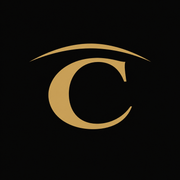
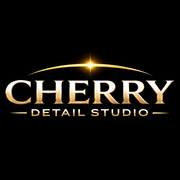
feat: apply client service and WhatsApp booking revisions

Changed region(s): [[0.0278, 0.2222, 0.9722, 0.7222]]

diff --git a/src/app/page.tsx b/src/app/page.tsx
@@ -1,7 +1,7 @@
 import Image from 'next/image';
 import Link from 'next/link';
 import { Location } from '@/components/Location';
-import { Countdown } from '@/components/Countdown';
+import { ContactButton } from '@/components/ContactButton';
 import { business, bookingUrl, featuredServices, otherServices } from '@/lib/content';
 
 const localBusiness = {
@@ -17,14 +17,14 @@ const localBusiness = {
 export default function HomePage() {
   return <>
     <script type="application/ld+json" dangerouslySetInnerHTML={{ __html: JSON.stringify(localBusiness).replace(/</g, '\\u003c') }} />
-    <section className="hero"><Image src="/hero-car.webp" alt="Imagem ilustrativa de um hatch compacto brasileiro preto com acabamento brilhante" fill priority sizes="100vw" className="hero-image"/><div className="hero-scrim"/><div className="shell hero-content"><p className="hero-place">Estética automotiva em Jacupiranga</p><h1>Cuidado em cada detalhe.</h1><p className="hero-copy">Da busca à entrega, atenção individual para valorizar cada acabamento do seu veículo.</p><a className="button button-gold" href={bookingUrl()}>Falar sobre agendamento <span aria-hidden="true">↗</span></a><p className="image-note">Imagem ilustrativa</p></div></section>
-    <section id="inauguracao" className="opening-section"><div className="shell opening-grid"><div><p className="section-intro">Um novo endereço para o seu veículo</p><h2>Inauguração em 31/10.</h2><p>Venha conhecer nosso espaço na Rua Mangueira, 177. Esperamos você das 15h às 17h.</p><a className="text-link" href={business.maps} target="_blank" rel="noreferrer">Como chegar <span aria-hidden="true">↗</span></a></div><div className="opening-right"><p className="opening-date">31.10.2026</p><Countdown/></div></div></section>
+    <section className="hero"><Image src="/hero-car.webp" alt="Imagem ilustrativa de um hatch compacto brasileiro preto com acabamento brilhante" fill priority sizes="100vw" className="hero-image"/><div className="hero-scrim"/><div className="shell hero-content"><p className="hero-place">Estética automotiva em Jacupiranga</p><h1>Cuidado em cada detalhe.</h1><p className="hero-copy">Da busca à entrega, atenção individual para valorizar cada acabamento do seu veículo.</p><ContactButton/><p className="image-note">Imagem ilustrativa</p></div></section>
+    <section id="inauguracao" className="opening-section"><div className="shell opening-grid"><div><p className="section-intro">Uma nova experiência em Jacupiranga</p><h2>A Cherry está em inauguração.</h2><p>Um novo espaço dedicado à estética automotiva, com atenção aos detalhes e ao cuidado com o seu veículo.</p></div><div className="opening-welcome"><h3>Seu carro merece esse cuidado.</h3><p>Conheça os serviços e converse com a equipe para escolher o melhor cuidado para o seu veículo.</p><ContactButton/></div></div></section>
     <section id="servicos" className="services-section"><div className="shell"><div className="section-heading"><h2>O cuidado que seu carro merece.</h2><p>Serviços de estética e detalhamento planejados conforme o veículo e o resultado desejado.</p></div><div className="service-list">{featuredServices.map((service) => <Link className="service-row service-row-photo" key={service.slug} href={`/servicos/${service.slug}`}><span className="service-thumb"><Image src={service.image} alt="" fill sizes="(max-width: 560px) 100vw, 55vw"/></span><span className="service-title">{service.title}</span><span className="service-description">{service.description}</span><span className="service-arrow" aria-hidden="true">↗</span></Link>)}</div><p className="service-extra">Também realizamos {otherServices.join(', ').toLocaleLowerCase('pt-BR')} e outros serviços especializados.</p></div></section>
     <section className="kit-section"><div className="shell kit-grid"><div className="kit-copy"><h2>O cuidado começa na escolha.</h2><p>Produtos profissionais, ferramentas adequadas e atenção às superfícies. Cada veículo recebe o cuidado que precisa, do acabamento externo aos detalhes do interior.</p><a className="text-link" href={bookingUrl()}>Encontre o serviço ideal <span aria-hidden="true">↗</span></a></div><div className="kit-art"><Image src="/detailing-kit.webp" alt="Ilustração de ferramentas de estética automotiva: pulverizadores, microfibra, pincéis e politriz" fill sizes="(max-width: 860px) 100vw, 55vw"/></div></div></section>
-    <section className="care-section"><div className="shell care-grid"><figure className="studio-photo"><Image src="/studio-cutout.webp" alt="Fachada da Cherry Detail Studio, com entrada para veículos e iluminação dourada" fill sizes="(max-width: 860px) 100vw, 52vw"/></figure><div><h2>Seu tempo também merece cuidado.</h2><p>Atendemos com horário marcado em nosso espaço físico. Em Jacupiranga, buscamos e entregamos seu veículo sem taxa adicional, mediante combinação prévia.</p><p>Os produtos e procedimentos são escolhidos conforme as características do veículo e do serviço.</p><a className="text-link" href={bookingUrl('o serviço de leva e traz')}>Consultar disponibilidade <span aria-hidden="true">↗</span></a></div></div></section>
-    <section id="sobre" className="founder-section"><div className="shell founder-grid"><div className="founder-photo"><Image src="/alessandro-portrait.webp" alt="Retrato editado de Alessandro Ramos, fundador da Cherry Detail Studio" fill sizes="(max-width: 860px) 100vw, 45vw"/></div><div className="founder-copy"><p className="section-intro">Quem está à frente</p><h2>Alessandro Ramos</h2><p>Fundador da Cherry Detail Studio e da Tiger Segurança Privada, Alessandro conduz a Cherry com uma proposta de atendimento individualizado, atenção à segurança e cuidado em cada etapa.</p><p>Um espaço pensado para receber seu veículo e entregar uma experiência à altura do resultado.</p><a className="text-link" href={bookingUrl()}>Converse com a Cherry <span aria-hidden="true">↗</span></a></div></div></section>
-    <section className="faq-section"><div className="shell"><h2>Antes de agendar</h2><div className="faq-grid"><div><h3>Preciso marcar horário?</h3><p>Sim. Atendemos com horário marcado para dedicar o tempo necessário a cada veículo.</p></div><div><h3>Vocês atendem em domicílio?</h3><p>Os serviços são feitos no estúdio. Oferecemos leva e traz gratuito dentro de Jacupiranga, combinado previamente.</p></div><div><h3>Como solicito um orçamento?</h3><p>Fale com a equipe pelo WhatsApp e conte qual serviço você procura. A avaliação do veículo orienta a proposta.</p></div><div><h3>Quando a plataforma de agendamento estará disponível?</h3><p>A plataforma Cera será divulgada quando estiver ativa. Por enquanto, converse com a Cherry pelo WhatsApp.</p></div></div></div></section>
+    <section className="care-section"><div className="shell care-grid"><div className="pickup-flow"><h3>Leva e traz gratuito em Jacupiranga</h3><ol><li><strong>Combine pelo WhatsApp</strong><p>Conte o serviço que procura e consulte a disponibilidade.</p></li><li><strong>A gente busca</strong><p>Retiramos o veículo no endereço e horário combinados.</p></li><li><strong>Você recebe de volta</strong><p>Após o cuidado no estúdio, combinamos a entrega.</p></li></ol></div><div><h2>Seu tempo também merece cuidado.</h2><p>Atendemos com horário marcado em nosso espaço físico. Em Jacupiranga, buscamos e entregamos seu veículo sem taxa adicional, mediante combinação prévia.</p><p>Os produtos e procedimentos são escolhidos conforme as características do veículo e do serviço.</p><a className="text-link" href={bookingUrl('o serviço de leva e traz')}>Consultar disponibilidade <span aria-hidden="true">↗</span></a></div></div></section>
+    <section id="sobre" className="founder-section"><div className="shell founder-grid"><div className="founder-photo"><Image src="/alessandro-portrait.webp" alt="Retrato editado de Sandro Ramos, fundador da Cherry Detail Studio" fill sizes="(max-width: 860px) 100vw, 45vw"/></div><div className="founder-copy"><p className="section-intro">Quem está à frente</p><h2>Sandro Ramos</h2><a className="sandro-profile" href="https://www.instagram.com/sandro_ramoos_/" target="_blank" rel="noreferrer"><Image src="/instagram.svg" alt="" width={18} height={18}/> @sandro_ramoos_</a><p>Fundador da Cherry Detail Studio e da Tiger Segurança Privada, Sandro conduz a Cherry com uma proposta de atendimento individualizado, atenção à segurança e cuidado em cada etapa.</p><p>Um espaço pensado para receber seu veículo e entregar uma experiência à altura do resultado.</p><a className="text-link" href={bookingUrl()}>Converse com a Cherry <span aria-hidden="true">↗</span></a></div></div></section>
+    <section className="faq-section"><div className="shell"><h2>Antes de agendar</h2><div className="faq-grid"><div><h3>Preciso marcar horário?</h3><p>Sim. Atendemos com horário marcado para dedicar o tempo necessário a cada veículo.</p></div><div><h3>Vocês atendem em domicílio?</h3><p>Os serviços são feitos no estúdio. Oferecemos leva e traz gratuito dentro de Jacupiranga, combinado previamente.</p></div><div><h3>Como solicito um orçamento?</h3><p>Fale com a equipe pelo WhatsApp e conte qual serviço você procura. A avaliação do veículo orienta a proposta.</p></div><div><h3>Como faço meu agendamento?</h3><p>Toque em “Agendar pelo WhatsApp”, envie sua mensagem e combine o serviço e o horário diretamente com a equipe.</p></div></div></div></section>
     <Location/>
-    <section id="contato" className="contact-section"><div className="shell contact-grid"><div><p className="section-intro">Estamos em Jacupiranga</p><h2>Seu próximo cuidado começa aqui.</h2><a className="button button-gold" href={bookingUrl()}>Conversar no WhatsApp <span aria-hidden="true">↗</span></a></div><div className="contact-info"><h3>Cherry Detail Studio</h3><p>{business.address}</p><p>Segunda a sexta: 08h às 18h<br/>Sábado: 08h às 13h<br/>Atendimento com horário marcado.</p><a href={business.maps} target="_blank" rel="noreferrer">Abrir rota <span aria-hidden="true">↗</span></a><a href={`tel:+${business.phone}`}>{business.phoneDisplay}</a></div></div></section>
+    <section id="contato" className="contact-section"><div className="shell contact-grid"><div><p className="section-intro">Estamos em Jacupiranga</p><h2>Seu próximo cuidado começa aqui.</h2><ContactButton/></div><div className="contact-info"><h3>Cherry Detail Studio</h3><p>{business.address}</p><p>Segunda a sexta: 08h às 18h<br/>Sábado: 08h às 13h<br/>Atendimento com horário marcado.</p><a href={business.maps} target="_blank" rel="noreferrer">Abrir rota <span aria-hidden="true">↗</span></a><a href={`tel:+${business.phone}`}>{business.phoneDisplay}</a></div></div></section>
   </>;
 }

diff --git a/src/lib/content.ts b/src/lib/content.ts
@@ -6,9 +6,6 @@ export const business = {
   address: 'Rua Mangueira, 177 – Flor da Vila, Jacupiranga/SP, CEP 11940-000',
   maps: 'https://www.google.com/maps/search/?api=1&query=Rua+Mangueira+177+Flor+da+Vila+Jacupiranga+SP',
   domain: 'https://cherrydetail.com.br',
-  openingAt: '2026-10-31T15:00:00-03:00',
-  openingEnd: '2026-10-31T17:00:00-03:00',
-  ceraUrl: '',
 } as const;
 
 export interface Service {
@@ -22,9 +19,9 @@ export interface Service {
 }
 
 export const featuredServices: Service[] = [
-  { slug: 'higienizacao-de-estofados', title: 'Higienização de estofados', description: 'Um cuidado dedicado ao interior do veículo.', detail: 'A higienização dos estofados é indicada para quem deseja renovar o cuidado com o interior do veículo. A avaliação prévia considera o material e as condições de cada peça.', benefit: 'Cuidado individual para o ambiente em que você passa mais tempo.', image: '/higienizacao-estofados.webp', imageAlt: 'Imagem ilustrativa da higienização de estofados de um carro compacto' },
+  { slug: 'higienizacao-de-estofados', title: 'Higienização de estofados', description: 'Limpeza profunda para um interior mais higienizado e renovado.', detail: 'A higienização dos estofados combina limpeza profunda e extração de sujeiras e resíduos dos bancos e tecidos. O procedimento busca reduzir a presença de fungos, ácaros e bactérias no interior do carro, conforme os produtos e métodos adequados a cada material.', benefit: 'Um interior com aspecto mais limpo, higienizado e aparência renovada. O resultado depende do material, do estado de conservação e das condições dos estofados.', image: '/higienizacao-estofados.webp', imageAlt: 'Imagem ilustrativa da higienização de estofados de um carro compacto' },
   { slug: 'polimento-tecnico', title: 'Polimento técnico', description: 'Acabamento atento à condição da pintura.', detail: 'O polimento técnico é planejado a partir de uma avaliação da pintura. A proposta é trabalhar o acabamento com atenção aos detalhes e às necessidades do veículo.', benefit: 'Uma apresentação da pintura feita com critério.', image: '/polimento-tecnico.webp', imageAlt: 'Imagem ilustrativa de polimento em um sedã comum no Brasil' },
-  { slug: 'lavagem-premium', title: 'Lavagem premium', description: 'Uma lavagem com mais atenção a cada etapa.', detail: 'A lavagem premium reúne cuidado na limpeza e atenção às superfícies do veículo. O procedimento é definido conforme o estado do carro e o resultado desejado.', benefit: 'Limpeza e apresentação em um atendimento cuidadoso.', image: '/lavagem-premium.webp', imageAlt: 'Imagem ilustrativa da lavagem premium de um SUV compacto' },
+  { slug: 'lavagem-premium', title: 'Lavagem premium', description: 'Um cuidado A+ com produtos e serviços adicionais à lavagem técnica.', detail: 'A lavagem premium oferece um cuidado A+: além da limpeza da lavagem técnica, reúne produtos e serviços agregados para dedicar mais atenção às superfícies e ao acabamento do veículo. A equipe explica os cuidados adicionais indicados para o seu carro antes do agendamento.', benefit: 'Mais cuidado no acabamento e na apresentação do veículo, com a composição do serviço definida na avaliação e no orçamento.', image: '/lavagem-premium.webp', imageAlt: 'Imagem ilustrativa da lavagem premium de um SUV compacto' },
   { slug: 'lavagem-de-motor', title: 'Lavagem de motor', description: 'Limpeza avaliada conforme as características do veículo.', detail: 'A lavagem de motor exige avaliação prévia das condições e características do veículo. Na Cherry, o atendimento é orientado pela segurança e pelo cuidado em cada etapa.', benefit: 'Um serviço especializado com atenção à segurança.', image: '/lavagem-motor.webp', imageAlt: 'Imagem ilustrativa da limpeza cuidadosa do motor de um carro compacto' },
 ];
 
@@ -36,5 +33,5 @@ export function whatsappUrl(subject?: string): string {
 }
 
 export function bookingUrl(subject?: string): string {
-  return business.ceraUrl || whatsappUrl(subject);
+  return whatsappUrl(subject);
 }

diff --git a/src/components/SiteFooter.tsx b/src/components/SiteFooter.tsx
@@ -1,12 +1,13 @@
 import Link from 'next/link';
 import Image from 'next/image';
 import { business, whatsappUrl } from '@/lib/content';
+import { ContactButton } from './ContactButton';
 import { Brand } from './Brand';
 
 export function SiteFooter() {
   return <footer className="site-footer"><div className="shell">
-    <div className="footer-invitation"><div><p>Vamos cuidar do seu veículo?</p><span>Converse com a Cherry e encontre o cuidado ideal.</span></div><a className="button button-gold" href={whatsappUrl()}>Agendar pelo WhatsApp <span aria-hidden="true">↗</span></a></div>
-    <div className="footer-top"><div className="footer-identity"><Link href="/" aria-label="Cherry Detail Studio, início"><Brand/></Link><p>Estética automotiva em Jacupiranga.<br/>Cuidado em cada detalhe.</p><a href={business.instagram} target="_blank" rel="noreferrer">Instagram <span aria-hidden="true">↗</span></a></div><div className="footer-column"><h2>Visite o estúdio</h2><address>Rua Mangueira, 177<br/>Flor da Vila · Jacupiranga/SP<br/>CEP 11940-000</address><a href={business.maps} target="_blank" rel="noreferrer">Como chegar <span aria-hidden="true">↗</span></a></div><div className="footer-column"><h2>Fale com a Cherry</h2><a className="footer-phone" href={whatsappUrl()}>{business.phoneDisplay}</a><p>Segunda a sexta · 08h às 18h<br/>Sábado · 08h às 13h</p><span>Atendimento com horário marcado.</span></div></div>
+    <div className="footer-invitation"><div><p>Vamos cuidar do seu veículo?</p><span>Converse com a Cherry e encontre o cuidado ideal.</span></div><ContactButton/></div>
+    <div className="footer-top"><div className="footer-identity"><Link href="/" aria-label="Cherry Detail Studio, início"><Brand/></Link><p>Estética automotiva em Jacupiranga.<br/>Cuidado em cada detalhe.</p><a href={business.instagram} target="_blank" rel="noreferrer"><Image src="/instagram.svg" alt="" width={18} height={18}/> Instagram <span aria-hidden="true">↗</span></a></div><div className="footer-column"><h2>Visite o estúdio</h2><address>Rua Mangueira, 177<br/>Flor da Vila · Jacupiranga/SP<br/>CEP 11940-000</address><a href={business.maps} target="_blank" rel="noreferrer">Como chegar <span aria-hidden="true">↗</span></a></div><div className="footer-column"><h2>Fale com a Cherry</h2><a className="footer-phone" href={whatsappUrl()}>{business.phoneDisplay}</a><p>Segunda a sexta · 08h às 18h<br/>Sábado · 08h às 13h</p><span>Atendimento com horário marcado.</span></div></div>
     <div className="footer-credit"><a className="footer-credit-link" href="https://bythe.tech/" aria-label="Desenvolvido por BYTHE"><span>Desenvolvido por</span><Image src="/bythe-mark.svg" alt="" width={35} height={28}/></a></div>
     <div className="footer-base"><p>© {new Date().getFullYear()} Cherry Detail Studio. Todos os direitos reservados.</p><div><Link href="/privacidade">Privacidade</Link><a href="#conteudo">Voltar ao topo <span aria-hidden="true">↑</span></a></div></div>
   </div></footer>;

diff --git a/src/app/servicos/[slug]/page.tsx b/src/app/servicos/[slug]/page.tsx
@@ -1,8 +1,9 @@
 import type { Metadata } from 'next';
 import Link from 'next/link';
 import Image from 'next/image';
+import { ContactButton } from '@/components/ContactButton';
 import { notFound } from 'next/navigation';
-import { bookingUrl, featuredServices } from '@/lib/content';
+import { featuredServices } from '@/lib/content';
 
 interface Props { params: Promise<{ slug: string }> }
 
@@ -19,5 +20,5 @@ export default async function ServicePage({ params }: Props) {
   const { slug } = await params;
   const service = featuredServices.find((item) => item.slug === slug);
   if (!service) notFound();
-  return <><section className="page-hero"><div className="shell"><p className="breadcrumb"><Link href="/">Início</Link> / Serviços</p><h1>{service.title}</h1><p>{service.description}</p></div></section><section className="detail-content"><div className="shell"><figure className="detail-photo"><Image src={service.image} alt={service.imageAlt} fill sizes="(max-width: 860px) 100vw, 1360px" priority/><figcaption>Imagem ilustrativa. Não representa um serviço realizado pela Cherry.</figcaption></figure><div className="detail-grid"><div><h2>Cuidado pensado para o seu veículo.</h2></div><div><p>{service.detail}</p><p>{service.benefit}</p><p>Atendemos com horário marcado na Rua Mangueira, 177, em Jacupiranga. O leva e traz é gratuito dentro da cidade, mediante combinação prévia.</p><a className="button button-gold" href={bookingUrl(service.title)}>Conversar sobre este serviço <span aria-hidden="true">↗</span></a></div></div></div></section></>;
+  return <><section className="page-hero"><div className="shell"><p className="breadcrumb"><Link href="/">Início</Link> / Serviços</p><h1>{service.title}</h1><p>{service.description}</p></div></section><section className="detail-content"><div className="shell"><figure className="detail-photo"><Image src={service.image} alt={service.imageAlt} fill sizes="(max-width: 860px) 100vw, 1360px" priority/><figcaption>Imagem ilustrativa. Não representa um serviço realizado pela Cherry.</figcaption></figure><div className="detail-grid"><div><h2>Cuidado pensado para o seu veículo.</h2></div><div><p>{service.detail}</p><p>{service.benefit}</p><p>Atendemos com horário marcado na Rua Mangueira, 177, em Jacupiranga. O leva e traz é gratuito dentro da cidade, mediante combinação prévia.</p><ContactButton subject={service.title}>Agendar este serviço pelo WhatsApp</ContactButton></div></div></div></section></>;
 }

diff --git a/src/app/client-revision.css b/src/app/client-revision.css
@@ -1,0 +1,1 @@
+.whatsapp-button{display:inline-flex;align-items:center;justify-content:center;gap:12px;background:#167342;color:#fff;font-weight:700}.whatsapp-button:hover{background:#105b34;color:#fff}.whatsapp-button>span{margin:0}.whatsapp-button img{flex-shrink:0}.floating-whatsapp{position:fixed;bottom:22px;right:24px;z-index:25;display:inline-flex;align-items:center;gap:10px;padding:15px 20px;border-radius:999px;background:#167342;color:#fff;font-size:14px;font-weight:700;box-shadow:0 5px 25px #0005;transition:background-color .2s,transform .2s}.floating-whatsapp:hover{background:#105b34;transform:translateY(-3px)}.floating-whatsapp>span{margin:0}.opening-welcome{padding:36px;background:#23231d;border-radius:14px}.opening-welcome h3{font-size:25px;font-weight:600;letter-spacing:-.03em;line-height:1.25}.opening-welcome p{font-size:16px!important;margin-bottom:26px}.opening-section h2{font-size:clamp(2.5rem,4vw,4rem)}.pickup-flow{background:#1b1e19;padding:38px;border-radius:16px}.pickup-flow h3{font-size:25px;line-height:1.3;letter-spacing:-.025em;font-weight:600;margin-bottom:30px}.pickup-flow ol{padding-left:22px;margin:0;display:grid;gap:24px}.pickup-flow li{padding-left:9px}.pickup-flow li::marker{color:#c8a360;font-weight:700}.pickup-flow strong{font-size:17px}.pickup-flow li p{font-size:15px;line-height:1.65;margin:8px 0 0;color:#d3d4ca}.sandro-profile{display:inline-flex;align-items:center;gap:10px;color:#d7b572;font-size:14px;margin:0 0 25px}.founder-copy .sandro-profile img{opacity:.85}.footer-identity>a:last-child{display:inline-flex;align-items:center;gap:9px}.footer-identity>a:last-child img{width:18px;height:18px}.footer-invitation .whatsapp-button{border-radius:8px}.footer-base{padding-bottom:55px}@media(max-width:860px){.header-cta.whatsapp-button{display:inline-flex;padding:12px}.header-cta.whatsapp-button>span{display:none}.header-cta.whatsapp-button{margin-left:auto}.mobile-navigation{margin-left:0}.opening-welcome{padding:28px}.pickup-flow{padding:28px}}@media(max-width:560px){.floating-whatsapp{bottom:calc(14px + env(safe-area-inset-bottom));right:16px;padding:13px 17px;font-size:13px}.header-inner{gap:13px}.header-cta.whatsapp-button{min-width:44px;min-height:44px}.opening-welcome h3,.pickup-flow h3{font-size:23px}.opening-section h2{font-size:2.5rem}.footer-base{padding-bottom:65px}}

diff --git a/src/app/layout.tsx b/src/app/layout.tsx
@@ -2,12 +2,14 @@ import type { Metadata, Viewport } from 'next';
 import { business } from '@/lib/content';
 import { SiteHeader } from '@/components/SiteHeader';
 import { SiteFooter } from '@/components/SiteFooter';
+import { FloatingWhatsApp } from '@/components/ContactButton';
 import { MotionLayer } from '@/components/MotionLayer';
 import './globals.css';
 import './studio.css';
 import './refinement.css';
 import './brand-refresh.css';
 import './motion.css';
+import './client-revision.css';
 import { Manrope } from 'next/font/google';
 
 const manrope = Manrope({ subsets: ['latin'], display: 'swap', variable: '--font-manrope' });
@@ -24,5 +26,5 @@ export const metadata: Metadata = {
 export const viewport: Viewport = { themeColor: '#0b0b0b' };
 
 export default function RootLayout({ children }: Readonly<{ children: React.ReactNode }>) {
-  return <html lang="pt-BR" className={manrope.variable}><body><a className="skip-link" href="#conteudo">Pular para o conteúdo</a><SiteHeader/><main id="conteudo">{children}</main><MotionLayer/><SiteFooter/></body></html>;
+  return <html lang="pt-BR" className={manrope.variable}><body><a className="skip-link" href="#conteudo">Pular para o conteúdo</a><SiteHeader/><main id="conteudo">{children}</main><MotionLayer/><SiteFooter/><FloatingWhatsApp/></body></html>;
 }

diff --git a/src/components/SiteHeader.tsx b/src/components/SiteHeader.tsx
@@ -1,5 +1,5 @@
 import Link from 'next/link';
-import { bookingUrl } from '@/lib/content';
+import { ContactButton } from './ContactButton';
 import { Brand } from './Brand';
 import { MobileNavigation } from './MobileNavigation';
 
@@ -7,7 +7,7 @@ export function SiteHeader() {
   return <header className="site-header"><div className="shell header-inner">
     <Link className="brand" href="/" aria-label="Cherry Detail Studio, página inicial"><Brand/></Link>
     <nav aria-label="Navegação principal"><a href="/#servicos">Serviços</a><a href="/#sobre">Sobre</a><a href="/#contato">Contato</a></nav>
-    <a className="header-cta" href={bookingUrl()}>Agendar conversa <span aria-hidden="true">↗</span></a>
+    <ContactButton className="header-cta whatsapp-button"/>
     <MobileNavigation/>
   </div></header>;
 }

diff --git a/src/components/ContactButton.tsx b/src/components/ContactButton.tsx
@@ -1,0 +1,10 @@
+import Image from 'next/image';
+import { whatsappUrl } from '@/lib/content';
+
+export function ContactButton({ subject, children = 'Agendar pelo WhatsApp', className = 'button whatsapp-button' }: { subject?: string; children?: React.ReactNode; className?: string }) {
+  return <a className={className} href={whatsappUrl(subject)} aria-label={subject ? `Agendar ${subject} pelo WhatsApp` : 'Agendar pelo WhatsApp'}><Image src="/whatsapp.svg" alt="" width={23} height={23}/><span>{children}</span></a>;
+}
+
+export function FloatingWhatsApp() {
+  return <ContactButton className="floating-whatsapp">Agendar</ContactButton>;
+}

diff --git a/DESIGN.md b/DESIGN.md
@@ -29,3 +29,11 @@ Site editorial para estética automotiva premium em Jacupiranga. O cuidado em ca
 - Movimento premium: curva .2,.7,.2,1; entradas de 650 ms, números de 450 ms, flutuação lenta.
 - Controle global de pausa e preferência reduced-motion; conteúdo continua legível sem JavaScript.
 - Contador tem urgência baseada na data real, sem vagas ou promoções fictícias.
+
+## Alterações solicitadas pelo cliente — vigentes
+- Agendamento exclusivamente pelo WhatsApp; botões verdes com ícone oficial, ação no header e botão flutuante persistente.
+- Instagram com ícone e link do perfil pessoal de Sandro Ramos: https://www.instagram.com/sandro_ramoos_/.
+- Inauguração mantida como mensagem institucional, sem data, horário de evento, convite público ou contador.
+- Fachada removida da interface; espaço ocupado pelo passo a passo real de leva e traz em Jacupiranga.
+- Textos de higienização e lavagem premium detalhados; sem promessas absolutas de eliminação de microrganismos ou recuperação do estado de novo.
+- Favicon atualizado para composição completa fiel à logo oficial.
